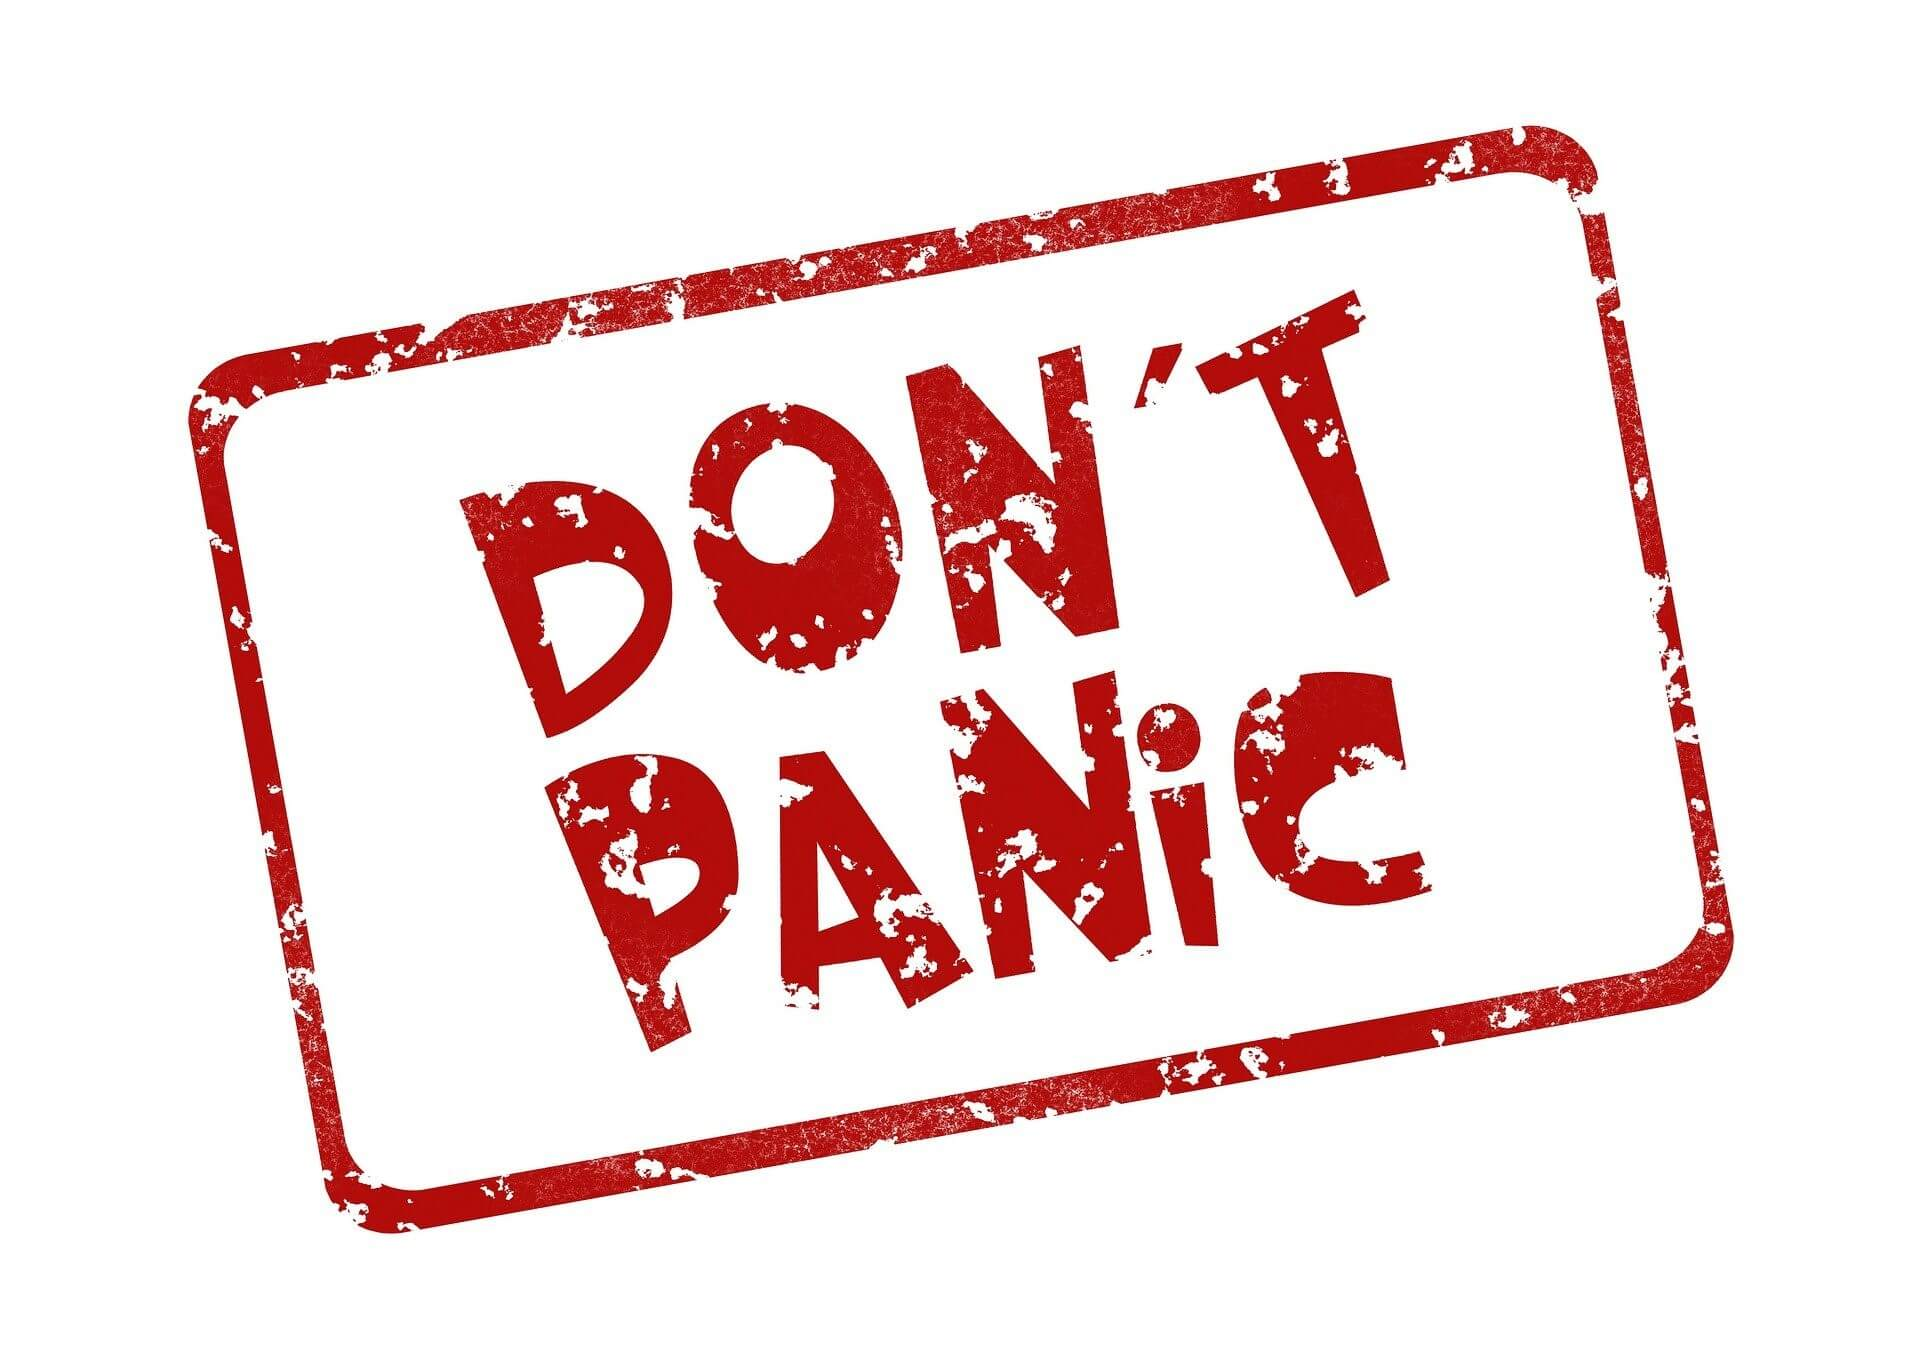
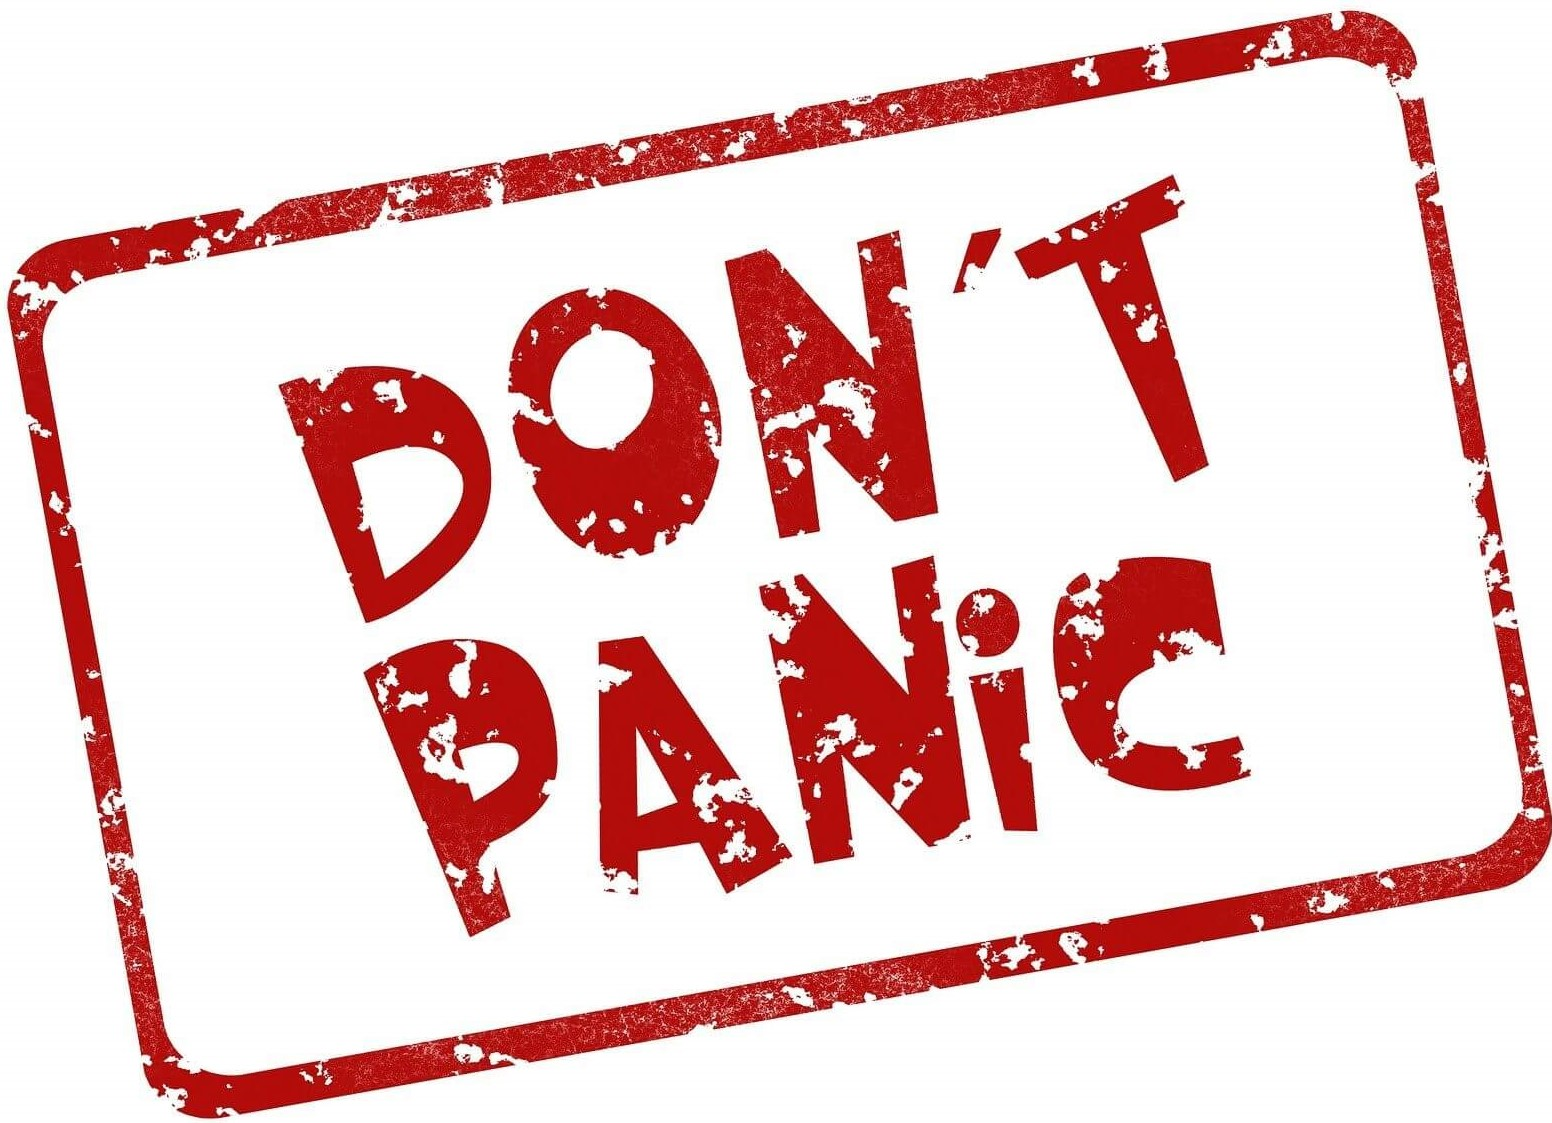
404 page edited

diff --git a/templates/404.html b/templates/404.html
@@ -1,18 +1,20 @@
 {% extends "base.html" %}
 {% block content %}
 
-<div class="row">
-    <div class="col s12">
-        <div class="center-align error-page">
-            <h6 class="center-align red-text text-darken-4">Oh No! <i class="far fa-surprise"></i></h6>
-            <h6 class="center-align"><b>It looks like something has gone wrong! But.....</b></h6>
-            <img src="../static/images/rubber-stamp.jpg" alt="dont-panic">
-            <p class="center-align blue-text text-darken-2"> click the link below to safely return to our homepage</p>
-            <div class="center-align reg-button btn-floating btn-large pulse green darken-2">
-                <a href="{{ url_for('get_recipes') }}"><i class="fas fa-home left"></i>Take me home!</a>
-            </div>
-        </div>
+<div class="col s12 error-page">
+    <div class="center-align">
+        <h4 class="center-align black-text"> <b>It looks like something has gone wrong! 
+            <br>But.....</h4>
+        <img src="../static/images/rubber-stamp.jpg" alt="dont-panic">
+        <h5 class="center-align blue-text text-darken-2"> click the link below to safely return to our homepage</h5>
     </div>
 </div>
+
+<div class="col s12 center-align home-button">
+    <div class="btn-large green pulse darken-2 text-shadow">
+        <a href="{{ url_for('get_recipes') }}" class="white-text"><i class="fas fa-home"></i>Take me home!</a>
+    </div>
+</div>
+
 
 {% endblock %}

diff --git a/static/css/style.css b/static/css/style.css
@@ -261,11 +261,14 @@ body {
     font-style: italic;
 }
 /* 404 error page */
-error-page {
+.error-page {
     margin-top: 30px;
 }
-error-page img {
-    width: 100%;
+.error-page img {
+    width: 30%;
+    margin-top: 20px;
+}
+.home-button {
     margin-top: 30px;
-    margin-bottom: 30px;
+    margin-bottom: 40px;
 }

diff --git a/templates/register.html b/templates/register.html
@@ -1,3 +1,4 @@
+
 {% extends "base.html" %}
 {% block content %}
 

diff --git a/app.py b/app.py
@@ -216,6 +216,6 @@ def not_found(error):
 if __name__ == "__main__":
     app.run(host=os.environ.get("IP"),
             port=int(os.environ.get("PORT")),
-            debug=False)
+            debug=True)
 
 # change to false before submission
